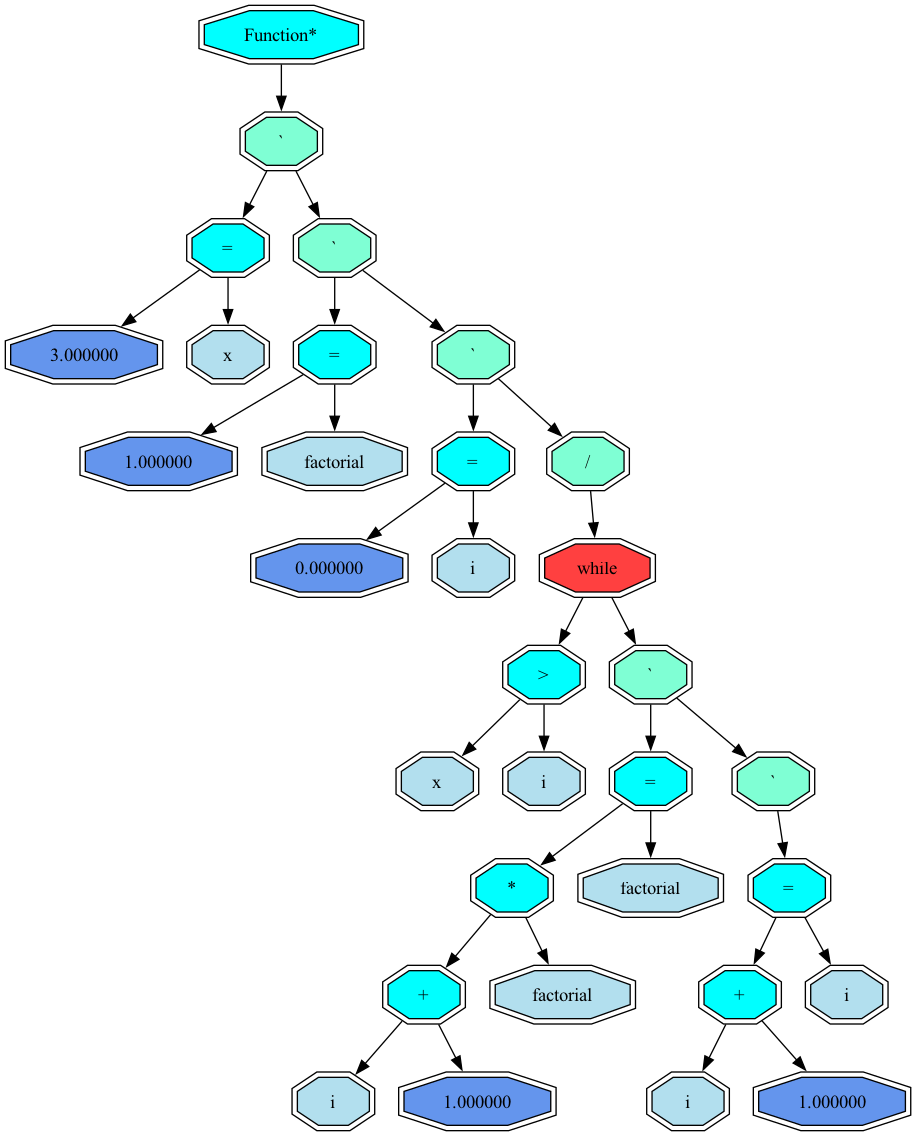
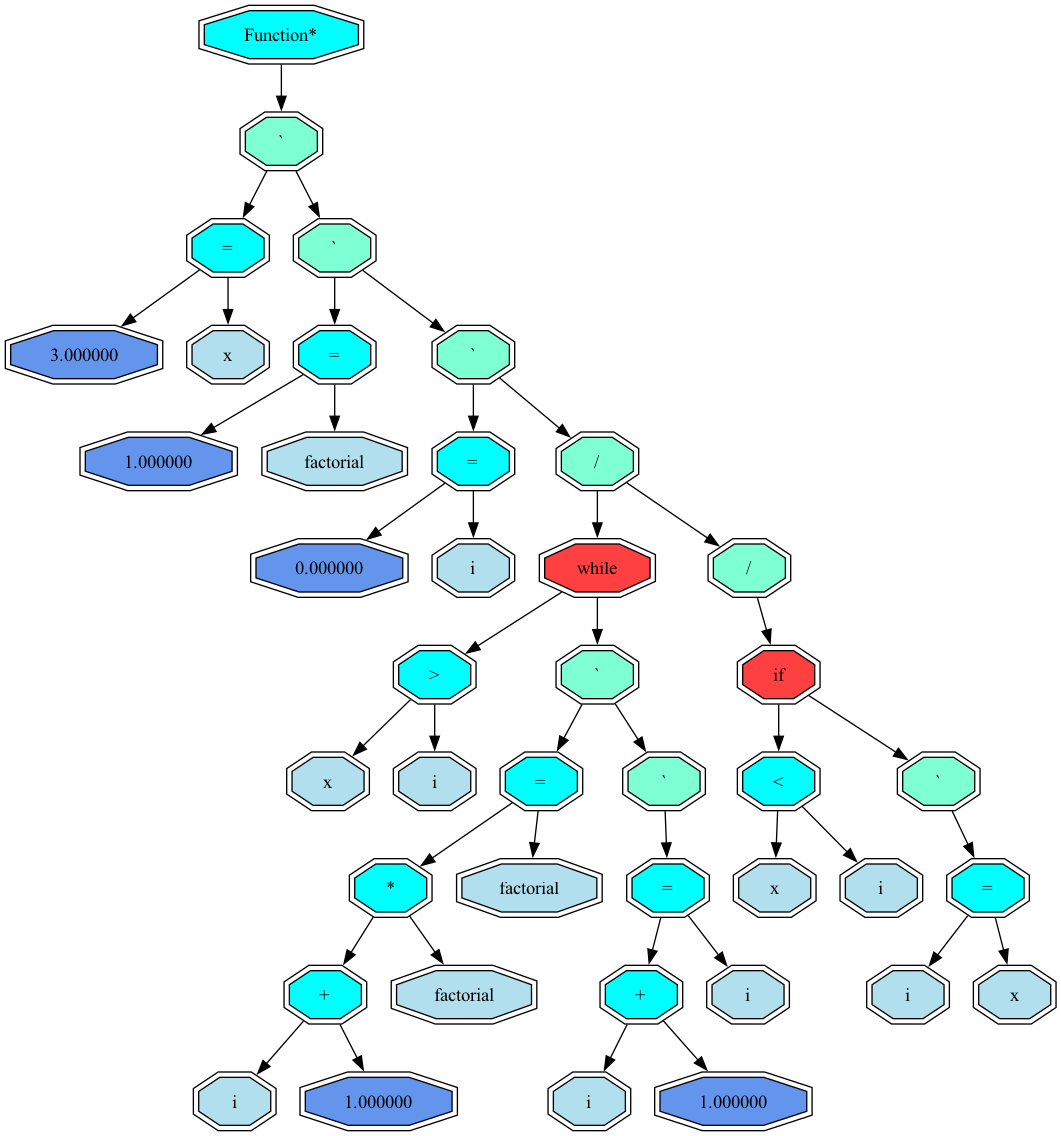
debug

Changed region(s): [[0.0, 0.0, 1.0, 1.0]]

diff --git a/back_end/back_end.cpp b/back_end/back_end.cpp
@@ -1,0 +1,123 @@
+#include "../back_end/back_end.h"
+#include "../front_end/front_end.h"
+#include "../back_end/stack/stack_cd.h"
+
+int num_of_while = 0;
+int num_of_if = 0;
+
+void ConvertToAssembler (TreeNode* node, FILE* file, Name* name_cell)
+{
+    stack while_num = {};
+    StackCtor (&while_num, num_size);
+    stack if_num = {};
+    StackCtor (&if_num, num_size);
+
+    if (node->type == KWR && node->value == WHILE) // изменить так как while может не соответствовать условию
+    {
+        StackPush (&while_num, (float)num_of_while);
+
+        ConvertToAssembler (node->left, file, name_cell);
+        if (node->left->value == MORE)
+        {
+            float tmp_num = 0;
+            StackPop (&while_num, &tmp_num);
+            fprintf (file, "ja :while_%d\n", (int)tmp_num);
+            fprintf (file, "jbe :then_while_%d\n", (int)tmp_num);
+            StackPush (&while_num, tmp_num);
+
+        }
+        else if (node->left->value == LESS)
+        {
+            float tmp_num = 0;
+            StackPop (&while_num, &tmp_num);
+            fprintf (file, "jb :while_%d\n", (int)tmp_num);
+            fprintf (file, "jae :then_while_%d\n", (int)tmp_num);
+            StackPush (&while_num, tmp_num);
+        }
+
+        fprintf (file, ":while_%d\n", num_of_while);
+        num_of_while++;
+
+        if (node->right != NULL)
+            ConvertToAssembler (node->right, file, name_cell);
+
+        if (node->left->type == OP)
+        {
+            ConvertToAssembler (node->left, file, name_cell);
+            if (node->left->value == MORE)
+            {
+                float tmp_num = 0;
+                StackPop (&while_num, &tmp_num);
+                fprintf (file, "ja :while_%d\n", (int)tmp_num);
+                fprintf (file, "jbe :then_while_%d\n", (int)tmp_num);
+            }
+            else if (node->left->value == LESS)
+            {
+                float tmp_num = 0;
+                StackPop (&while_num, &tmp_num);
+                fprintf (file, "jb :while_%d\n", (int)tmp_num);
+                fprintf (file, "jbe :then_while_%d\n", (int)tmp_num);
+            }
+        }
+        fprintf (file, ":then_while_%d\n", num_of_while - 1);
+    }
+    else if (node->type == KWR && node->value == IF)
+    {
+        StackPush (&if_num, (float)num_of_if);
+        num_of_if++;
+
+        if (node->left->type == OP)
+        {
+            ConvertToAssembler (node->left, file, name_cell);
+            if (node->left->value == MORE)
+            {
+                float tmp_num = 0;
+                StackPop (&if_num, &tmp_num);
+                fprintf (file, "ja :if_%d\n", (int)tmp_num);
+                fprintf (file, "jbe :then_if_%d\n", (int)tmp_num);
+            }
+            else if (node->left->value == LESS)
+            {
+                float tmp_num = 0;
+                StackPop (&if_num, &tmp_num);
+                fprintf (file, "jb :if_%d\n", (int)tmp_num);
+                fprintf (file, "jae :then_if_%d\n", (int)tmp_num);
+            }
+        }
+        fprintf (file, ":if_%d\n", num_of_if - 1);
+        if (node->right != NULL)
+            ConvertToAssembler (node->right, file, name_cell);
+        fprintf (file, ":then_if_%d\n", num_of_if - 1);
+    }
+
+    if (node->type != KWR || (node->value != WHILE && node->value != IF))
+    {
+        if (node->left != NULL)
+            ConvertToAssembler (node->left, file, name_cell);
+        if (node->right != NULL && (node->type != OP || node->value != EQUAL))
+            ConvertToAssembler (node->right, file, name_cell);
+    }
+
+    if (node->type == NUM)
+    {
+        fprintf (file, "push %f\n", node->value);
+    }
+    else if (node->type == OP)
+    {
+        if (node->value == OP_ADD)
+            fprintf (file, "add\n");
+        else if (node->value == OP_SUB)
+            fprintf (file, "sub\n");
+        else if (node->value == OP_MUL)
+            fprintf (file, "mul\n");
+        else if (node->value == OP_DIV)
+            fprintf (file, "div\n");
+        else if (node->value == EQUAL)
+            if (node->right->type == VAR)
+                fprintf (file, "pop [%d]\n", (int)node->right->value);
+    }
+    else if (node->type == VAR)
+    {
+        fprintf (file, "push [%d]\n", (int)node->value);
+    }
+}

diff --git a/front_end/language_decent.cpp b/front_end/language_decent.cpp
@@ -1,9 +1,6 @@
 #include "../front_end/language_decent.h"
 #include "../front_end/front_end.h"
 
-// понять проблему с неверным выводом названия функции
-// возможно это изза func head или с dump
-
 void SkipSpaces (Position* data)
 {
     while (data->str[data->position] == ' ' || data->str[data->position] == '\n')
@@ -23,7 +20,6 @@ TreeNode* GetP (Position* data, Name* name_cell)
         data->position++;
         return val;
     }
-
     if (isalpha (data->str[data->position]) != 0)
     {
         return GetId (data, name_cell);
@@ -257,10 +253,10 @@ TreeNode* GetId (Position* data, Name* names)
     }
     printf ("%s\n", arg);
     SkipSpaces (data);
-    int func_name_code = SearchFuncName (arg, names);
-    printf ("func_code = %d\n", func_name_code);
     if (data->str[data->position] == '(')
     {
+        int func_name_code = SearchFuncName (arg, names);
+        printf ("func_code = %d\n", func_name_code);
         TreeNode* val = NULL;
         data->position++;
         val = GetE (data, names);

diff --git a/front_end/main.cpp b/front_end/main.cpp
@@ -2,6 +2,7 @@
 #include <stdlib.h>
 #include "../front_end/front_end.h"
 #include "../front_end/language_decent.h"
+#include "../back_end/back_end.h"
 
 int main ()
 {
@@ -14,7 +15,12 @@ int main ()
     Position data = {};
 
     char* data_buf = TreeCtor1 (&tree, file);
-    tree.root = GetG (data_buf, &data, names);
+    tree.root = GetG (data_buf, &data, names); // построимли дерево
+
+    // front_end
+    FILE* file_ = fopen ("back_end/command.txt", "w");
+    ConvertToAssembler (tree.root, file_, names);
     TreeDump (tree.root, names);
     TreeDel (tree.root);
+    fclose (file_);
 }

diff --git a/front_end/front_end.cpp b/front_end/front_end.cpp
@@ -153,14 +153,11 @@ void DumpTreeNode (TreeNode* node, FILE* file, Name* name_cell)
             return;
     }
 
-
     if (node->type != FUNC)
         DumpTreeNode (node->left, file, name_cell);
     if (node->right != NULL)
         DumpTreeNode (node->right, file, name_cell);
 }
-
-
 
 int SearchVarName (char* name, Name* name_cell)
 {

diff --git a/back_end/back_end.h b/back_end/back_end.h
@@ -1,0 +1,11 @@
+#ifndef BACK
+#define BACK
+
+#include <stdio.h>
+#include "../front_end/front_end.h"
+
+const int num_size = 50;
+
+void ConvertToAssembler (TreeNode* node, FILE* file, Name* name_cell);
+
+#endif
